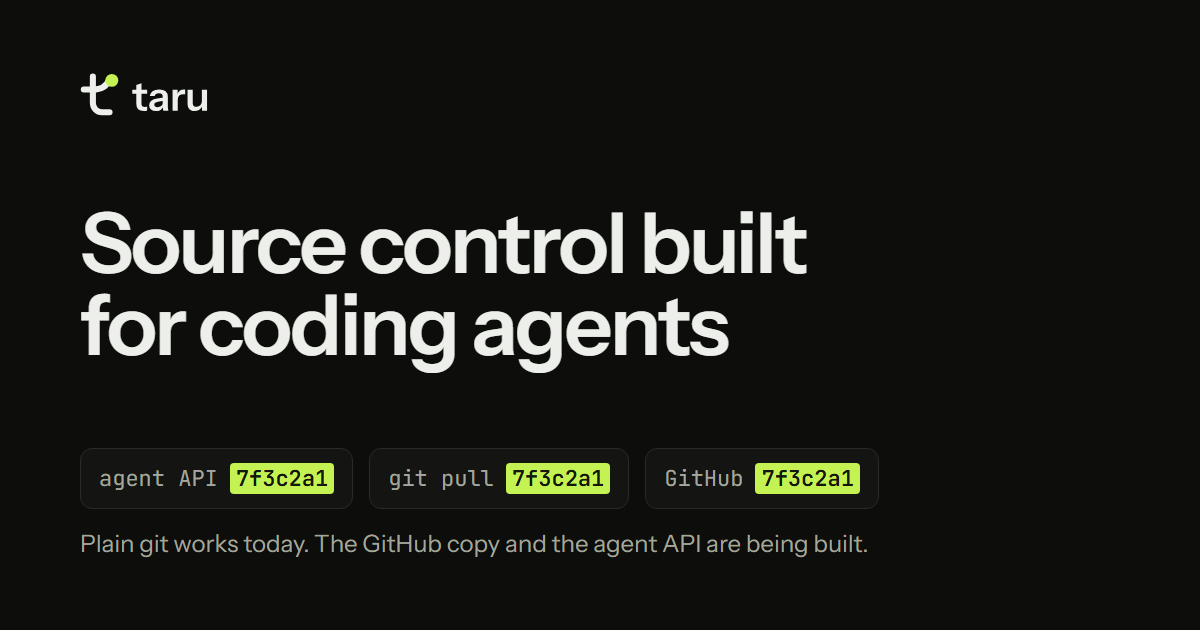
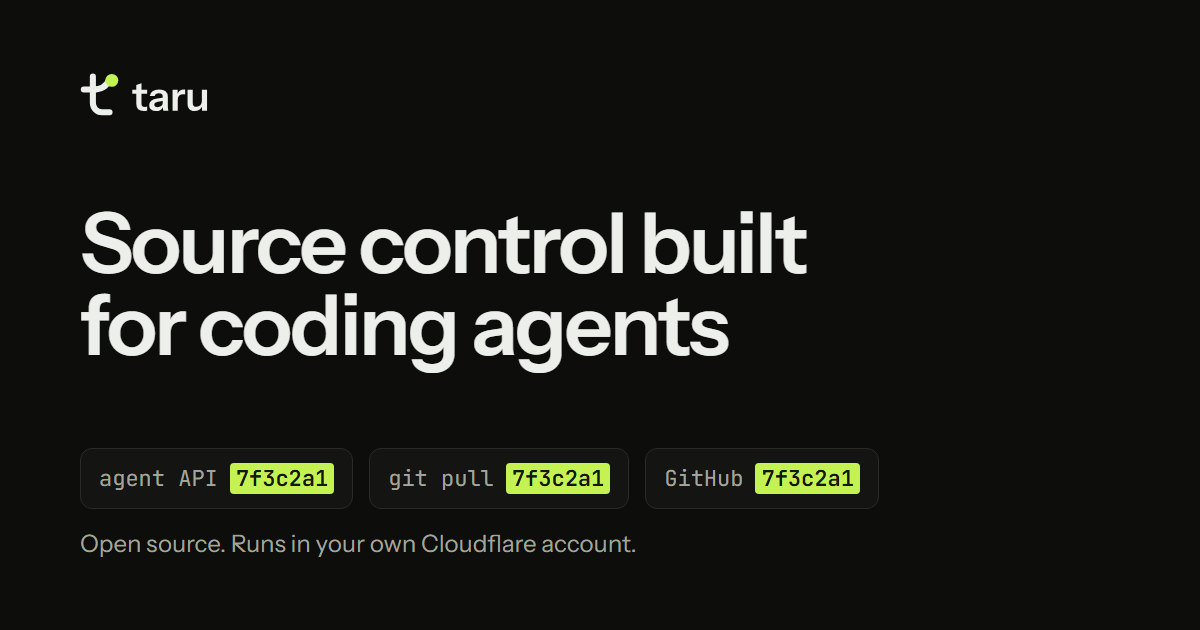
Say what works now that the agent API and GitHub copy are on main
With #1 merged, the agent API, MCP tools, server merges, GitHub import
and the automatic GitHub copy all work, so the landing page, README and
social card stop calling them "being built".

The hero's API mock-up uses the real request (expected_head and a changes
list), and each pane's note says what happens there: a stale head gets a
409, git pull gets the same id, and GitHub gets the copy about a second
later. The board gives "Works today" two thirds of the width and stacks
"Next" (private folders, secrets) and "Later" (review app, CLI) beside it,
following the build order in docs/architecture.md. The limits line adds
the 48 MiB cap on import and the copy, and the self-host commands add the
GITHUB_MIRROR_TOKEN secret from docs/ops.md.

Changed region(s): [[0.0617, 0.8444, 0.74, 0.8746]]

diff --git a/index.html b/index.html
@@ -6,7 +6,7 @@
     <title>Taru: source control built for coding agents</title>
     <meta
       name="description"
-      content="A Git server you run on your own Cloudflare account. Plain git push and git clone work today. Next, agents will commit through an API without cloning, and Taru will copy every push to GitHub. Open source."
+      content="A Git server you run on your own Cloudflare account. Agents read, write and merge code through an API with no clone, git push and git clone keep working, and every push is copied to GitHub. Open source."
     />
     <meta name="color-scheme" content="light dark" />
     <meta name="theme-color" media="(prefers-color-scheme: light)" content="#fafaf7" />
@@ -20,7 +20,7 @@
     <meta property="og:title" content="Taru: source control built for coding agents" />
     <meta
       property="og:description"
-      content="A Git server you run on your own Cloudflare account. Plain git push and git clone work today. Next, agents will commit through an API without cloning, and Taru will copy every push to GitHub. Open source."
+      content="A Git server you run on your own Cloudflare account. Agents read, write and merge code through an API with no clone, git push and git clone keep working, and every push is copied to GitHub. Open source."
     />
     <meta property="og:image" content="/og.png" />
     <meta property="og:image:width" content="1200" />
@@ -60,8 +60,8 @@
           <h1 id="pitch">Source control built for coding agents</h1>
           <div class="hero-row">
             <p class="lede">
-              A Git server in your own Cloudflare account. <code>git push</code> and <code>git clone</code> work today.
-              Next, agents will commit through an API with no checkout, and every push will be copied to GitHub.
+              A Git server in your own Cloudflare account. Agents read, write and merge code through an API with no
+              checkout. People keep <code>git push</code> and <code>git clone</code>, and every push is copied to GitHub.
             </p>
             <form class="waitlist" data-waitlist method="post" action="/api/waitlist">
               <div class="waitlist-row">
@@ -99,19 +99,19 @@
                 <div class="pane" role="group" aria-label="An agent commits through the API">
                   <div class="pane-head"><span class="label"><b>Agent</b> calls the API</span></div>
                   <pre><code><span class="code-muted">POST /api/repos/acme/api/commits</span>
-{
-  "branch": "main",
+{ "branch": "main",
+  "expected_head": "e91d0b4",
   "message": "Lower the rate limit",
-  "files": { "src/limit.ts": "…" }
-}
+  "changes": [{ "path": "src/limit.ts",
+                "content": "…" }] }
 
 <span class="code-muted">201 Created</span>
 { "commit": "<span class="sha">7f3c2a1</span>" }</code></pre>
                 </div>
-                <div class="place-note">
-                  <span class="status" data-status="building">Building now</span>
-                  <p>An agent will send the files it changed and a message. Ten agents won't need ten checkouts.</p>
-                </div>
+                <p class="place-note">
+                  An agent sends the files it changed and the commit it read. If the branch moved, it gets a 409
+                  instead of overwriting someone's work.
+                </p>
               </div>
               <div class="place">
                 <div class="pane" role="group" aria-label="A laptop pulls it with plain git">
@@ -123,10 +123,9 @@ Updating e91d0b4..<span class="sha">7f3c2a1</span>
 <span class="code-prompt">$ </span>git log --oneline -1
 <span class="sha">7f3c2a1</span> Lower the rate limit</code></pre>
                 </div>
-                <div class="place-note">
-                  <span class="status" data-status="today">Works today</span>
-                  <p>People and CI keep the git they have. Clone, pull and push work over HTTPS.</p>
-                </div>
+                <p class="place-note">
+                  People and CI keep the git they have. <code>git pull</code> gets the agent's commit with the same id.
+                </p>
               </div>
               <div class="place">
                 <div class="pane" role="group" aria-label="The same commit on GitHub">
@@ -151,10 +150,10 @@ Updating e91d0b4..<span class="sha">7f3c2a1</span>
                     </ol>
                   </div>
                 </div>
-                <div class="place-note">
-                  <span class="status" data-status="building">Building now</span>
-                  <p>Every push will be copied, one way, to a GitHub repo you own. Actions and contributors stay there.</p>
-                </div>
+                <p class="place-note">
+                  About a second later Taru copies it, one way, to a GitHub repo you own. Actions and contributors stay
+                  there.
+                </p>
               </div>
             </div>
           </figure>
@@ -205,11 +204,10 @@ Updating e91d0b4..<span class="sha">7f3c2a1</span>
         <div class="wrap">
           <h2 id="status-title">What works today, and what's next</h2>
           <p class="section-intro">
-            Here is what agent-heavy teams say gets in the way, and where Taru stands on each. Taru is early, so most of
-            it is still being built.
+            Here is what agent-heavy teams say gets in the way, and where Taru stands on each.
           </p>
           <div class="board">
-            <section class="column" data-status="today" aria-labelledby="col-today">
+            <section class="column column-today" data-status="today" aria-labelledby="col-today">
               <h3 id="col-today"><span class="status" data-status="today">Works today</span></h3>
               <ul>
                 <li>
@@ -218,50 +216,50 @@ Updating e91d0b4..<span class="sha">7f3c2a1</span>
                   and check that the commits and files match.
                 </li>
                 <li>
-                  <b>GitHub outages, partly.</b> Push and clone run in your Cloudflare account and don't touch GitHub.
-                  Cloudflare has outages too.
+                  <b>No clone for every agent.</b> Agents read files, commit and merge through a REST API, or call the
+                  same operations as MCP tools, with no checkout, worktree or disk.
+                </li>
+                <li>
+                  <b>Merges on the server.</b> A three-way merge, tested against <code>git merge-tree</code>. A conflict
+                  writes nothing and goes back to the agent as a report, file by file.
+                </li>
+                <li>
+                  <b>You don't leave GitHub.</b> Import a GitHub repo, and Taru copies every change back to it, one way,
+                  about a second later.
+                </li>
+                <li>
+                  <b>GitHub outages, partly.</b> Push, clone and the API run in your Cloudflare account and don't touch
+                  GitHub. Cloudflare has outages too.
                 </li>
                 <li><b>Large files.</b> Files over 512 KB go to R2, which has no egress fees.</li>
               </ul>
               <p class="callout">
-                <b>Who can see your code today:</b> anyone who can reach your server can list every repo and clone it,
-                and one admin token controls pushes and new repos. Use Taru for public code and experiments for now.
-                Accounts with GitHub sign-in come in a later step.
+                <b>Who can see your code today:</b> anyone who can reach your server can list, read and clone every
+                repo, and one admin token controls pushes, API commits and new repos. Use Taru for public code and
+                experiments for now. Accounts with GitHub sign-in come in a later step.
               </p>
             </section>
-            <section class="column" data-status="building" aria-labelledby="col-building">
-              <h3 id="col-building"><span class="status" data-status="building">Building now</span></h3>
+            <section class="column" data-status="next" aria-labelledby="col-next">
+              <h3 id="col-next"><span class="status" data-status="next">Next</span></h3>
               <ul>
-                <li>
-                  <b>A clone for every agent.</b> Agents will read, edit and commit through an API and an MCP server,
-                  with no checkout.
-                </li>
-                <li>
-                  <b>Branches that collide.</b> Merges will run on the server, and conflicts will go back to the agent
-                  that made them.
-                </li>
-                <li>
-                  <b>Leaving GitHub.</b> You won't have to. Taru will import a GitHub repo and copy every push back to
-                  it, one way.
-                </li>
-              </ul>
-            </section>
-            <section class="column" data-status="planned" aria-labelledby="col-planned">
-              <h3 id="col-planned"><span class="status" data-status="planned">Planned</span></h3>
-              <ul>
-                <li>
-                  <b><code>.env</code> files and shared secrets.</b> Secrets will be encrypted, kept out of history,
-                  and handed only to the people, agents and CI that need them.
-                </li>
                 <li>
                   <b>Private code in a public repo.</b> The server will decide who sees which folders, and the GitHub
                   copy will leave private ones out.
                 </li>
                 <li>
+                  <b><code>.env</code> files and shared secrets.</b> Secrets will be encrypted, kept out of history,
+                  and handed only to the people, agents and CI that need them.
+                </li>
+              </ul>
+            </section>
+            <section class="column" data-status="later" aria-labelledby="col-later">
+              <h3 id="col-later"><span class="status" data-status="next">Later</span></h3>
+              <ul>
+                <li>
                   <b>Review that can't keep up.</b> A review app for agent changes. Until then, review stays on
                   GitHub.
                 </li>
-                <li><b>Agent workspaces.</b> A CLI with automatic snapshots and instant workspaces.</li>
+                <li><b>Agent workspaces.</b> A CLI with automatic snapshots and instant local workspaces.</li>
               </ul>
             </section>
           </div>
@@ -278,8 +276,7 @@ Updating e91d0b4..<span class="sha">7f3c2a1</span>
                 commit ids, and there's nothing to install.
               </li>
               <li>
-                Every push will be copied, one way, to a GitHub repo you own. Actions, issues and stars stay on
-                GitHub.
+                Every push is copied, one way, to a GitHub repo you own. Actions, issues and stars stay on GitHub.
               </li>
               <li>
                 Leave whenever you like. It's plain Git, so <code>git clone --mirror</code> takes the whole history
@@ -287,8 +284,8 @@ Updating e91d0b4..<span class="sha">7f3c2a1</span>
               </li>
             </ul>
             <p class="limits">
-              Not yet: SSH, shallow or partial clones, and pushes over 100 MB. So CI that clones straight from Taru
-              needs a full clone.
+              Not yet: SSH, shallow or partial clones, pushes over 100 MB, and importing or copying a repo with more than
+              48 MiB of Git objects. So CI that clones straight from Taru needs a full clone.
             </p>
           </div>
           <div class="pane">
@@ -334,7 +331,8 @@ To https://git.acme.dev/acme/api.git
             <pre class="commands"><code><span class="code-prompt">$ </span>bun install
 <span class="code-prompt">$ </span>bun run deploy
 <span class="code-prompt">$ </span>bunx wrangler d1 migrations apply taru --remote
-<span class="code-prompt">$ </span>bunx wrangler secret put TARU_ADMIN_TOKEN</code></pre>
+<span class="code-prompt">$ </span>bunx wrangler secret put TARU_ADMIN_TOKEN
+<span class="code-prompt">$ </span>bunx wrangler secret put GITHUB_MIRROR_TOKEN</code></pre>
             <a class="button button-quiet" href="https://github.com/kausthubh-coder/taru">Read the code</a>
           </article>
         </div>
@@ -371,8 +369,8 @@ To https://git.acme.dev/acme/api.git
               <dt>How is it different from Cursor Origin or Cloudflare Artifacts?</dt>
               <dd>
                 Cursor hosts Origin for you, and Cloudflare runs Artifacts as storage it bills per operation. Taru is
-                open source and runs in your own account. Around the storage it gives people plain git today, and an
-                API for agents and a copy on GitHub are being built.
+                open source and runs in your own account. Around the storage it gives people plain git, agents an API and
+                MCP tools, and you a copy on GitHub.
               </dd>
             </div>
             <div>

diff --git a/features/landing/ui/landing.css b/features/landing/ui/landing.css
@@ -104,8 +104,7 @@
 	color: var(--text-muted);
 }
 
-/* The strip: three places, each a pane with a note under it saying what happens there and whether it works yet. On a
-   desktop the panes join into one window, so the three places read as one system. */
+/* The strip: three places, each a pane with a note under it saying what happens there. On a desktop the panes join into one window, so the three places read as one system. */
 
 .strip {
 	margin-top: clamp(var(--space-8), 4vw, var(--space-12));
@@ -124,14 +123,8 @@
 }
 
 .place-note {
-	display: grid;
-	justify-items: start;
-	gap: var(--space-2);
-	padding-inline: var(--space-4);
-}
-
-.place-note p {
 	max-width: 40ch;
+	padding-inline: var(--space-4);
 	font-size: var(--text-small);
 	color: var(--text-muted);
 }
@@ -348,8 +341,8 @@
 	color: var(--text-muted);
 }
 
-/* What works: a board with one column per status. The column's edge says the same thing as the status dot: a solid
-   surface for what exists, a line for what's being built, a dashed line for what's planned. */
+/* What works: a board with one column per status, sized by how much is in it. The column's edge follows the status:
+   a solid surface for what works today, a line for what's next, a dashed line for what comes later. */
 
 .board {
 	display: grid;
@@ -358,9 +351,14 @@
 	margin-top: var(--space-12);
 }
 
+/* Works today takes two thirds and both rows; next and later stack beside it. */
 @media (width >= 960px) {
 	.board {
-		grid-template-columns: repeat(3, minmax(0, 1fr));
+		grid-template-columns: minmax(0, 2fr) minmax(0, 1fr);
+	}
+
+	.column-today {
+		grid-row: span 2;
 	}
 }
 
@@ -378,7 +376,7 @@
 	border-color: var(--line-input);
 }
 
-.column[data-status="planned"] {
+.column[data-status="later"] {
 	border: 1px dashed var(--line-input);
 }
 
@@ -396,6 +394,14 @@
 	color: var(--text-muted);
 }
 
+/* Wide enough for two columns of items at about 45 characters each. */
+@media (width >= 1120px) {
+	.column-today ul {
+		grid-template-columns: repeat(2, minmax(0, 1fr));
+		gap: var(--space-6) var(--space-8);
+	}
+}
+
 .column b,
 .callout b {
 	font-weight: 600;
@@ -404,6 +410,7 @@
 
 /* The exposure warning sits with what works today, because it's about today. */
 .callout {
+	max-width: var(--measure);
 	margin-top: auto;
 	padding-top: var(--space-4);
 	border-top: 1px solid var(--line);

diff --git a/.agents/skills/verify-taru/features/landing.md b/.agents/skills/verify-taru/features/landing.md
@@ -1,9 +1,9 @@
 # Landing page
 
 The public page at `/`: the pitch and the waitlist form, a drawn mock-up of one commit in three places (the agent
-API, plain git, the GitHub copy) with a status note under each, why agent-heavy teams need it (three numbers and a
-quote), a board of what works today, what's being built and what's planned, Git and GitHub compatibility, pricing,
-questions, and the waitlist again. Static HTML (`index.html`) and CSS
+API, plain git, the GitHub copy) with a note under each, why agent-heavy teams need it (three numbers and a quote),
+a board of what works today, what's next and what comes later, Git and GitHub compatibility, pricing, questions, and
+the waitlist again. Static HTML (`index.html`) and CSS
 (`features/landing/ui/landing.css` on top of `shared/ui/`), light and dark.
 
 ## Sub-features
@@ -24,7 +24,7 @@ Preconditions: baseline.
 
 - **Desktop, light.** Run `node .agents/skills/verify-taru/verify.mjs shot landing-desktop`. The PNG shows the h1 "Source control built for coding agents", the waitlist form and the three panes, and no overflow warning is printed.
 - **Phone, dark.** Run `node .agents/skills/verify-taru/verify.mjs shot landing-phone --phone --dark`. Dark backgrounds, the panes stacked, no overflow warning.
-- **Structure.** Read `landing-*.aria.txt`. It lists the h2s "Built for teams that run more agents than people", "What works today, and what's next", "Git and GitHub keep working", "Free to self-host. About $5 a month in real use.", "Questions" and "Get an email when there's something to try", and the board's h3s "Works today", "Building now" and "Planned".
+- **Structure.** Read `landing-*.aria.txt`. It lists the h2s "Built for teams that run more agents than people", "What works today, and what's next", "Git and GitHub keep working", "Free to self-host. About $5 a month in real use.", "Questions" and "Get an email when there's something to try", and the board's h3s "Works today", "Next" and "Later".
 
 ## Gotchas
 

diff --git a/README.md b/README.md
@@ -7,17 +7,16 @@
 
 Source control built for coding agents.
 
-Taru is a Git server you run on your own Cloudflare account. `git clone` and `git push` work today. Next, agents
-will read, write and merge code through an API without cloning, and Taru will copy every push to GitHub, so
-contributors, stars and CI stay where they are. Private folders inside public repos and safe secret sharing come
-after that.
+Taru is a Git server you run on your own Cloudflare account. Agents read, write and merge code through a REST API
+or MCP tools without cloning. `git clone` and `git push` keep working, and Taru copies every push to GitHub, so
+contributors, stars and CI stay where they are. Next: private folders inside public repos, and safe secret sharing.
 
 Taru runs on Cloudflare (Workers, Durable Objects, R2, D1). You can run your own copy on your Cloudflare
 account: it's free while you try it, and about $5 a month once it's in real use.
 
-> Early. Today: create a repo, `git push` and `git clone` over HTTPS. Being built: import from GitHub, the
-> automatic GitHub copy and the agent API. For now anyone who can reach the server can list and clone every repo,
-> so use it for public code.
+> Early. Today: create a repo, `git push` and `git clone` over HTTPS, import from GitHub, the automatic GitHub
+> copy, and the agent API and MCP server. Import and the copy stop at 48 MiB of Git objects. For now anyone who can
+> reach the server can list, read and clone every repo, so use it for public code.
 
 Brand, logo files and design tokens: `/brand/` on a running instance, and `shared/ui/theme.css`.
 

diff --git a/.critly/direction.md b/.critly/direction.md
@@ -14,7 +14,7 @@ References: Apple Continuity (the same document on four devices implies sync wit
 - Voice: plain, specific, honest about status (planned features never in the present tense). Errors and money: plain and calm.
 - Density and pace: persuade pages comfortable (body 17 to 19px, display 44 to 92px), instant hovers; the button press animates (100ms), and the landing hero plays its commit trail once on load (the id lights up in each place in turn, about 1.4s, none with reduced motion); app screens later compact (14 to 16px), quiet.
 
-Page rhythm: each section below the hero has its own shape (big numbers, a quote, the status board, a terminal, the plan) and status is said once per place, on the hero notes and the board, not on every line. The first version repeated one heading-plus-grey-text shape seven times.
+Page rhythm: each section below the hero has its own shape (big numbers, a quote, the status board, a terminal, the plan) and status is said once, on the board, not on every line. The first version repeated one heading-plus-grey-text shape seven times.
 
 ## Standard
 Layout, navigation, controls and states follow the platform and Critly's concepts.
